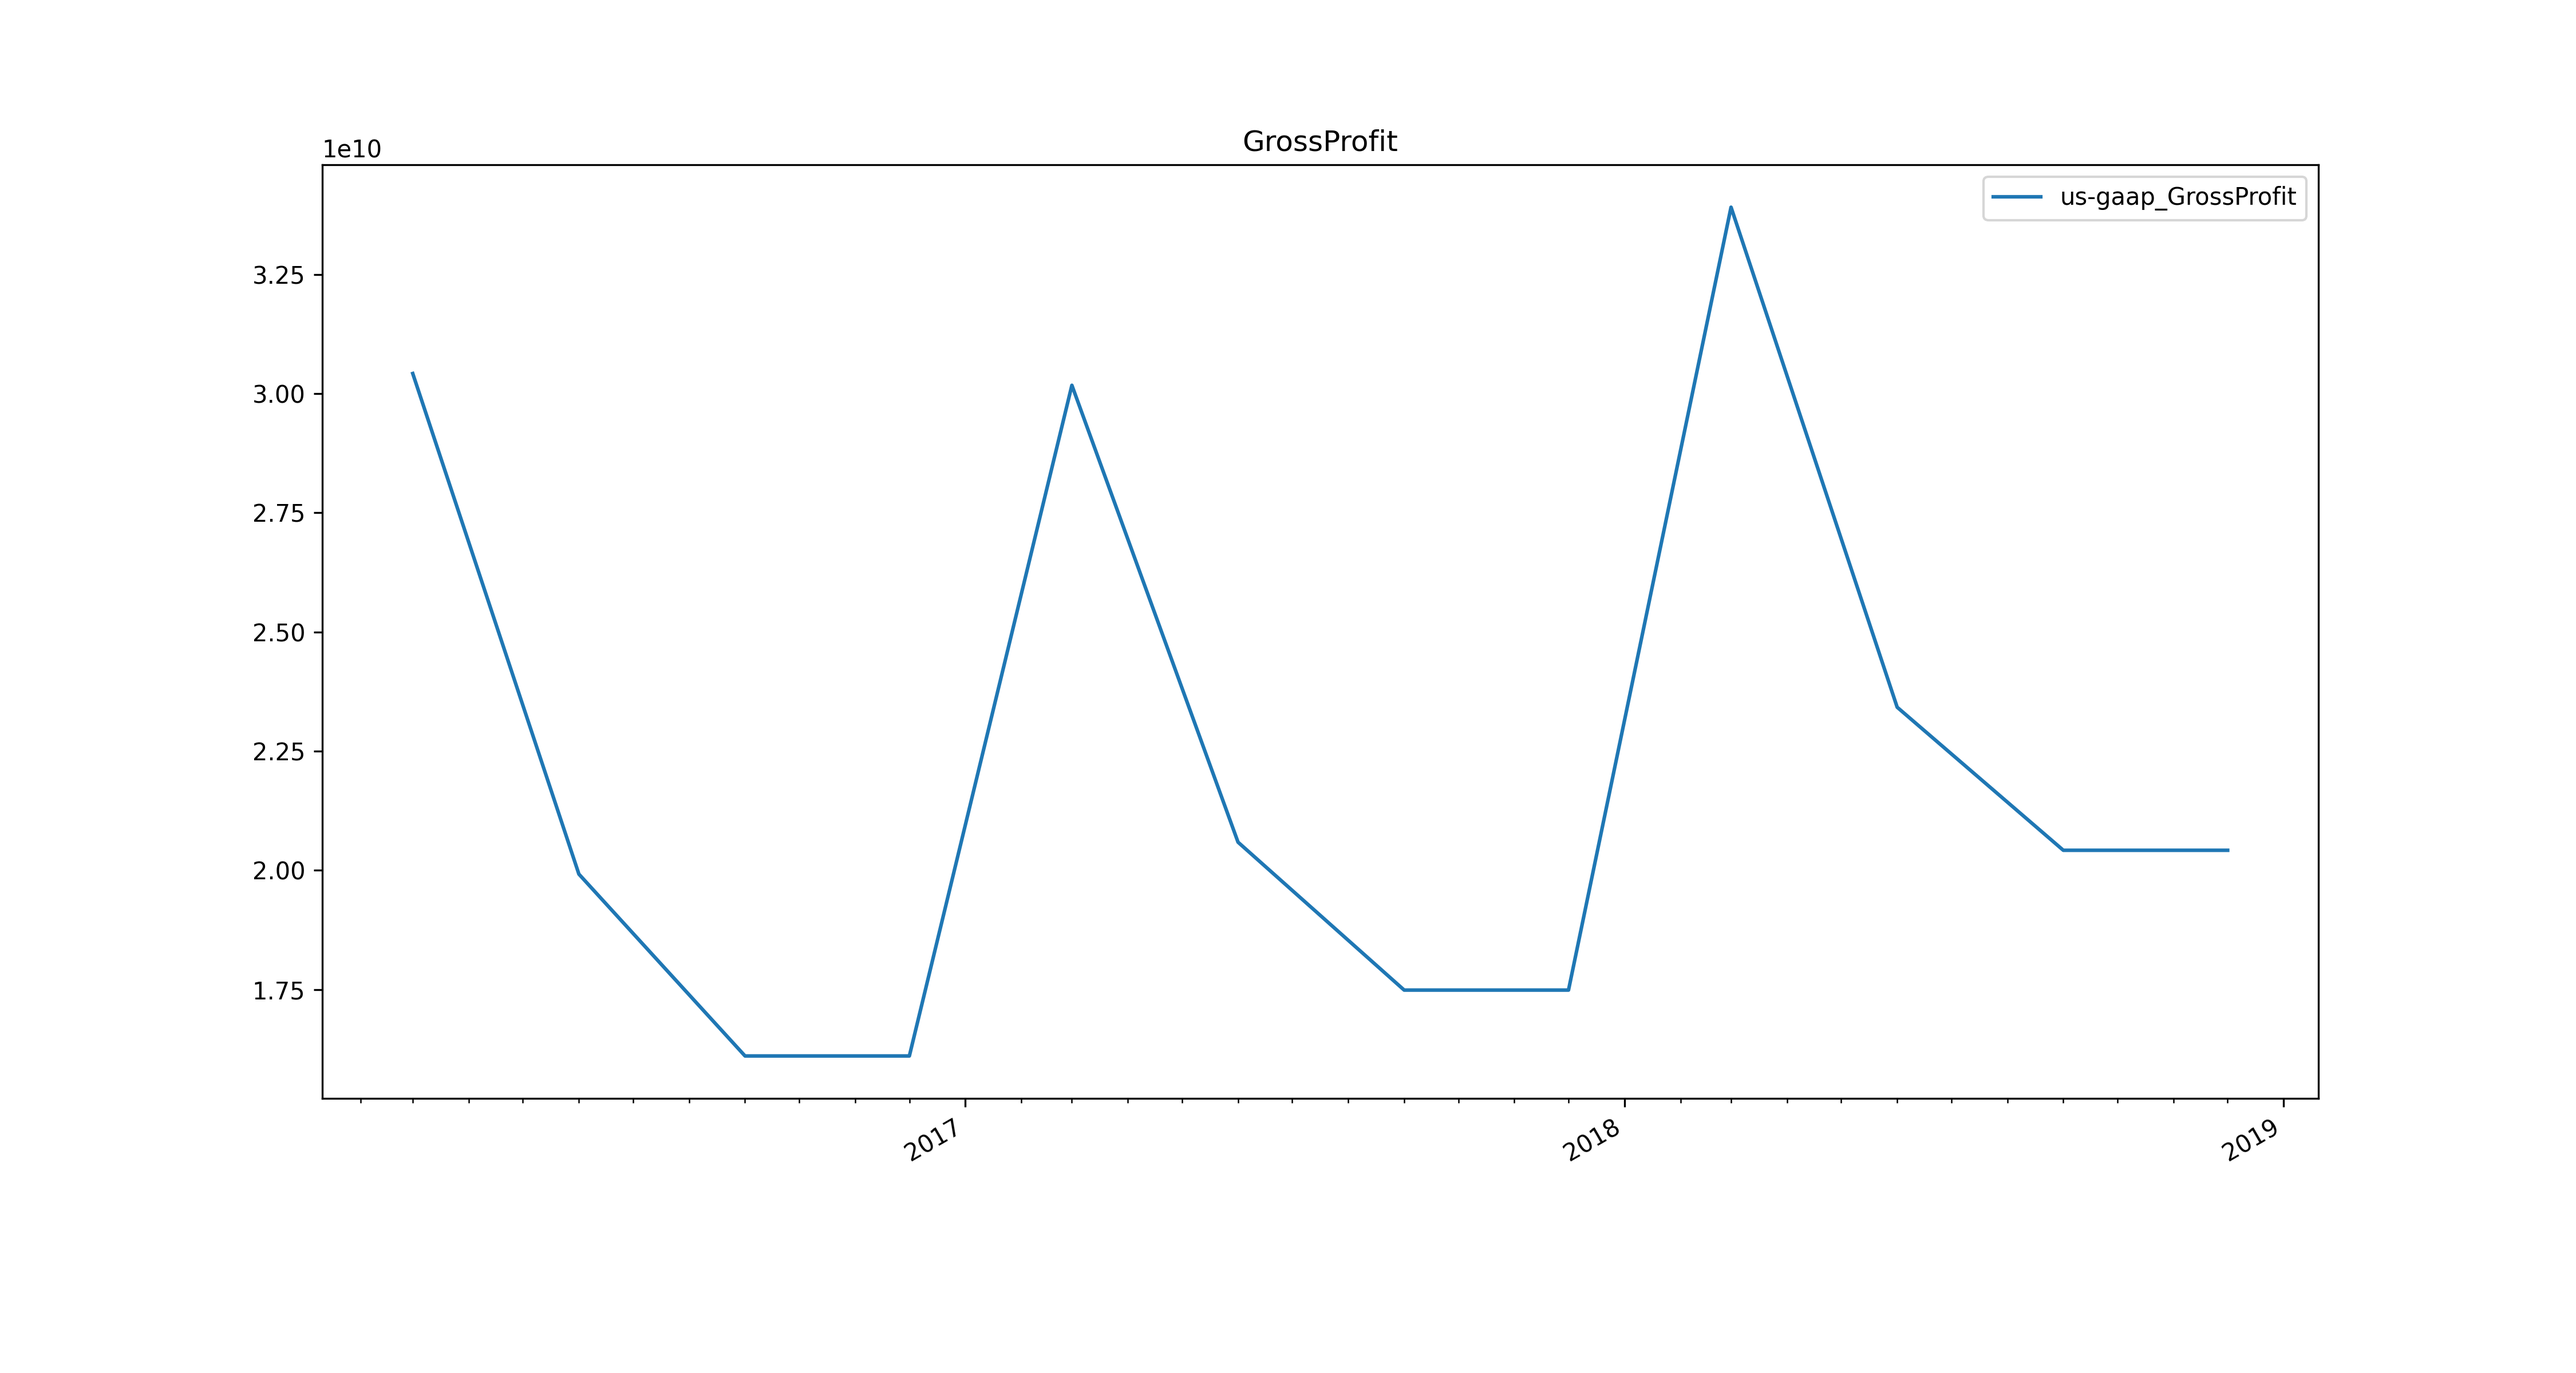
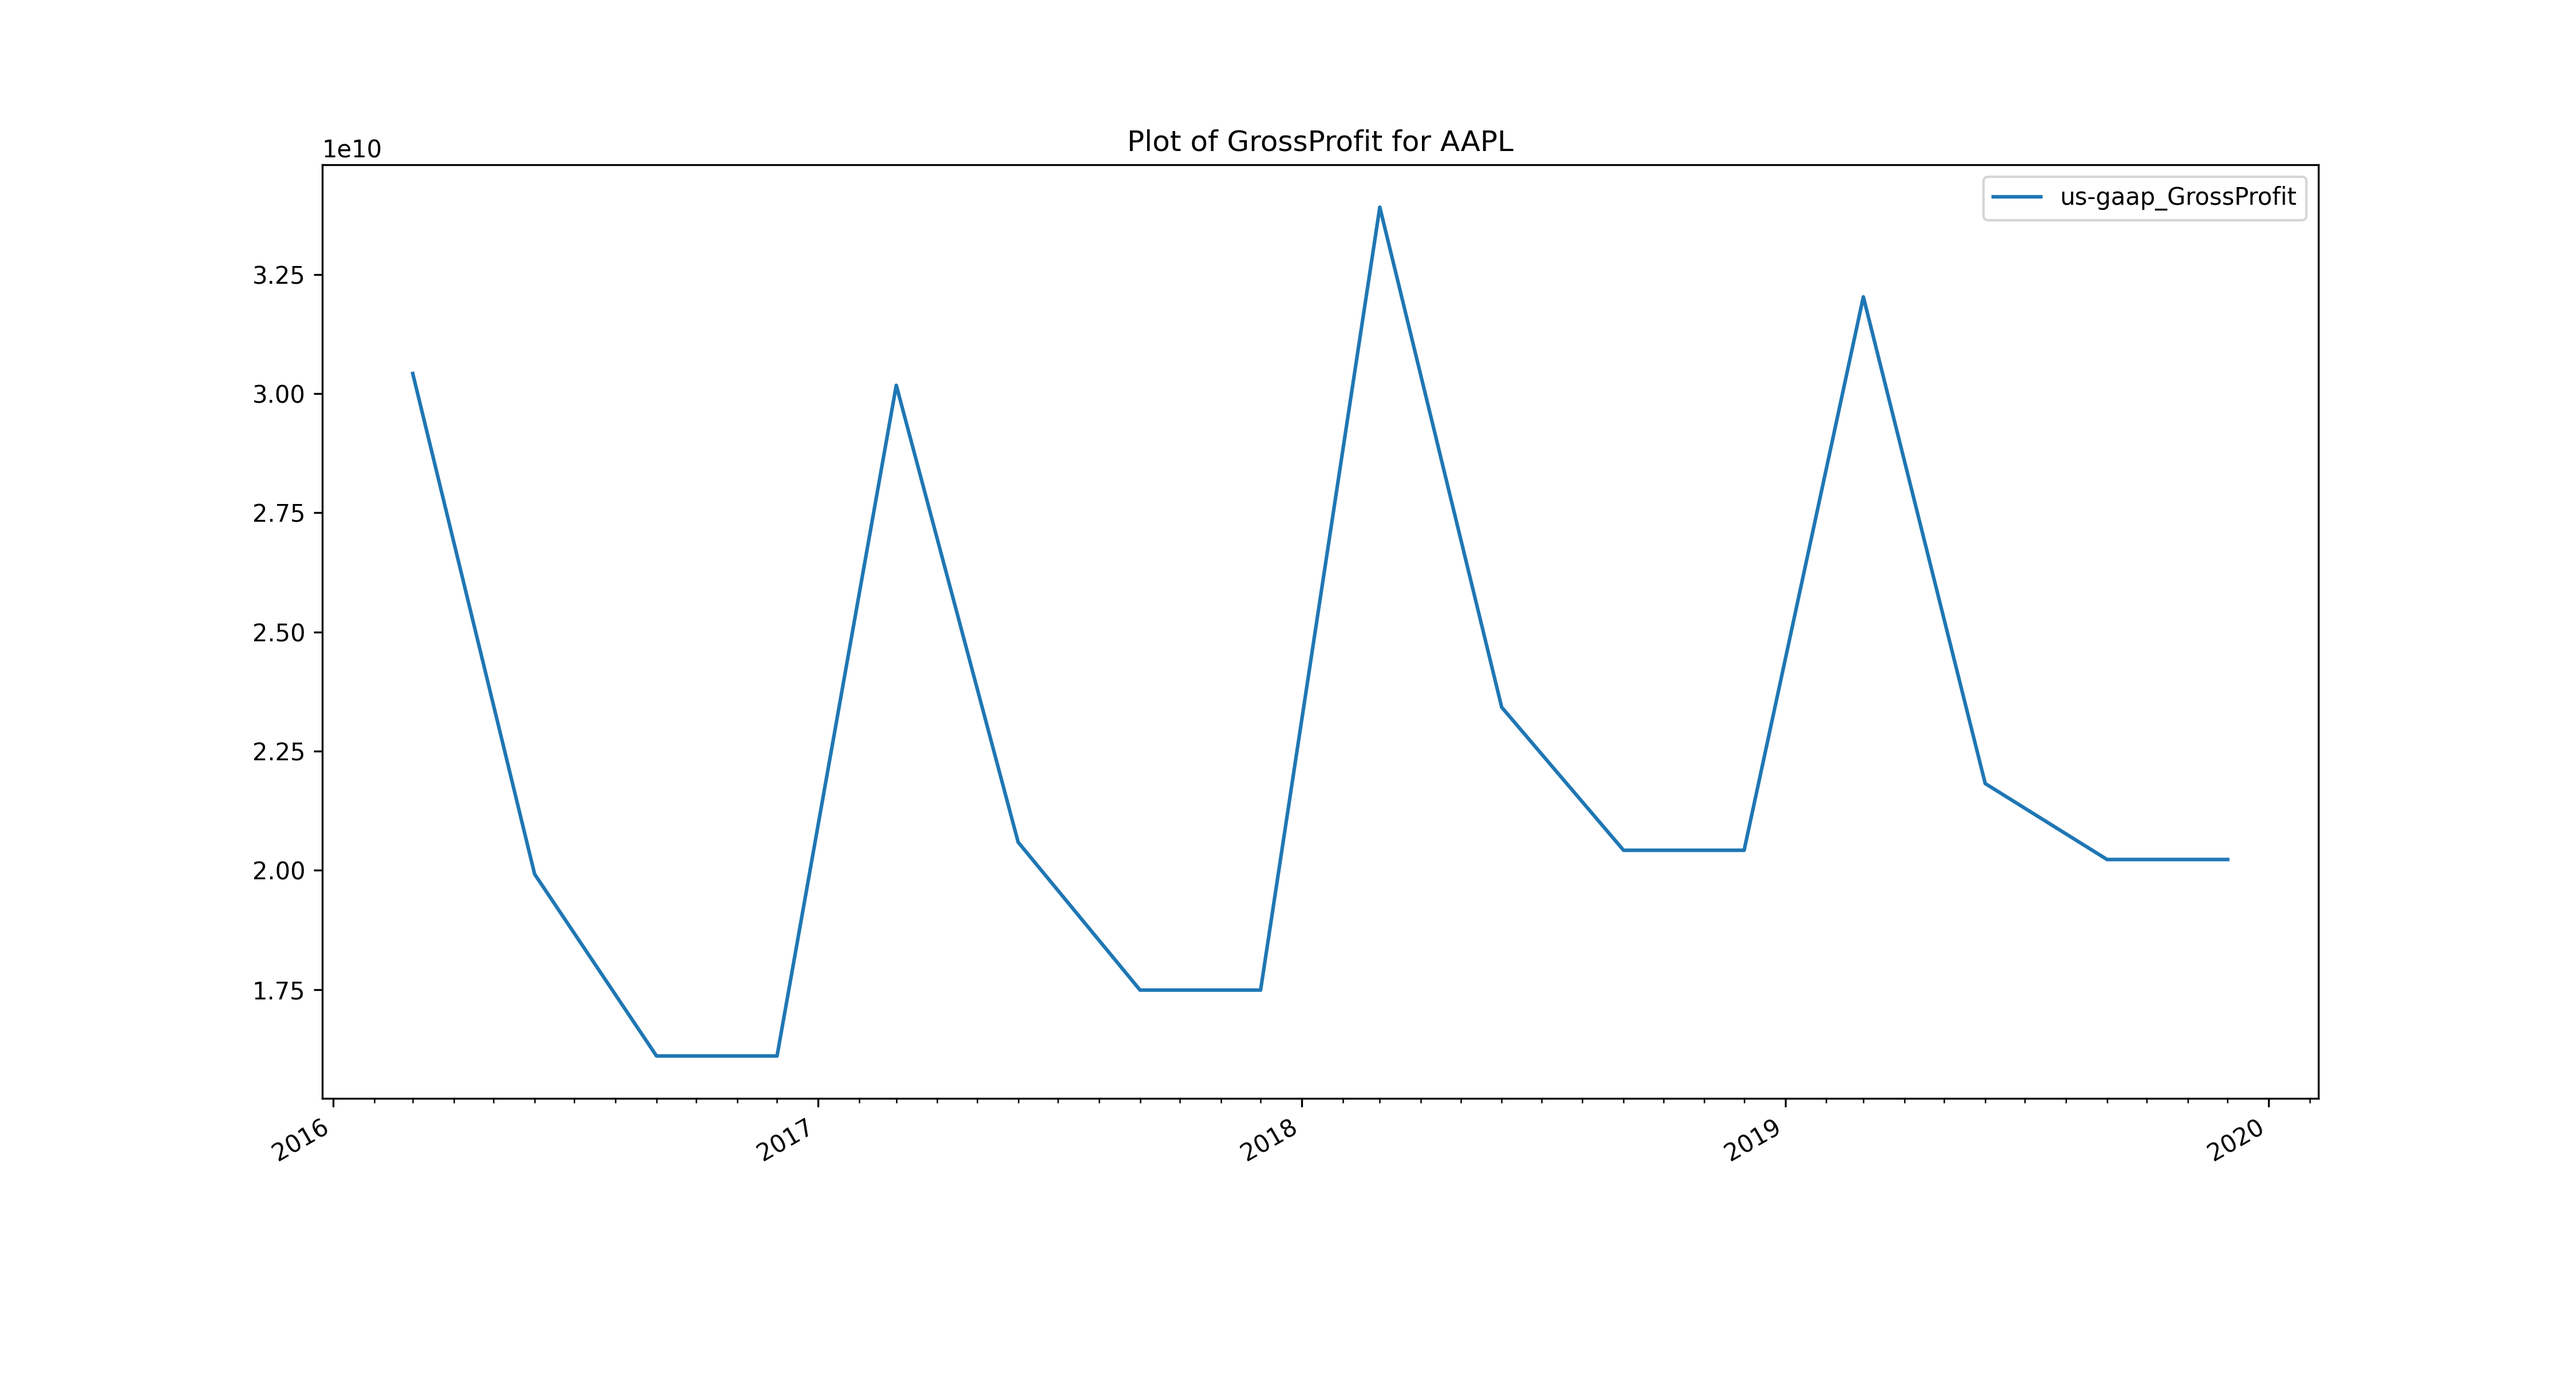
small improvement in exception handling

diff --git a/edgar_history.py b/edgar_history.py
@@ -8,8 +8,6 @@ import matplotlib.pyplot as plt
 import matplotlib.dates as mdates
 import sys
 
-
-
 def get_data_from_one_year(company_name, year):
     stock = Stock(company_name)
 
@@ -17,13 +15,25 @@ def get_data_from_one_year(company_name, year):
 
     for i in range(1, 5):
         filing = stock.get_filing(period='quarterly', year=year, quarter=i)
-        income_statement = filing.get_income_statements().reports[0].map
-        balance_sheet = filing.get_balance_sheets().reports[0].map
-        cash_flow = filing.get_cash_flows().reports[0].map
+        try:
+            income_statement = filing.get_income_statements().reports[0].map
+            #balance_sheet = filing.get_balance_sheets().reports[0].map
+            #cash_flow = filing.get_cash_flows().reports[0].map
+        except:
+            continue
 
         one_quarter_data = income_statement
-        one_quarter_data.update(balance_sheet)
-        one_quarter_data.update(cash_flow)
+
+        if filing.get_balance_sheets():
+            balance_sheet = filing.get_balance_sheets().reports[0].map
+            one_quarter_data.update(balance_sheet)
+
+        if filing.get_cash_flows():
+            cash_flow = filing.get_cash_flows().reports[0].map
+            one_quarter_data.update(cash_flow)
+
+        #one_quarter_data.update(balance_sheet)
+        #one_quarter_data.update(cash_flow)
 
         # trick to maintain the same structure of the data
         my_date_obj = namedtuple('MyStruct', 'value')
@@ -92,8 +102,7 @@ def plot(df, field_name, company_name=""):
     ax.xaxis.set_major_formatter(years_fmt)
     ax.xaxis.set_minor_locator(months)
 
-    ax.set_title(field_name[8:])
-
+    ax.set_title(f"Plot of {field_name[8:]} for {company_name}")
     fig.autofmt_xdate()
     plt.legend()
 
@@ -108,24 +117,26 @@ def main():
     field_name = "us-gaap_" + sys.argv[4]
 
     print("Downloading data")
-    data = get_data("AAPL", start_year=start_year, end_year=end_year)
+    data = get_data(company_name, start_year=start_year, end_year=end_year)
     data_keys = get_available_fields_from_data(data)
     df = data_to_pd(data)
-
     print("Download completed")
 
     while True:
         if field_name not in data_keys:
-            for field_name in data_keys:
+            for field_name in sorted(list(data_keys)):
                 print(field_name[8:])
 
             print(f"\n '{sys.argv[4]}' has not been found in the report.")
-            field_name = "us-gaap_" + input("\n Enter the field from the list above: ")
+            field_name = "us-gaap_" + input("\n Enter the field from the list above: \n")
 
-        plot(df, field_name, "AAPL")
+            continue
+
+        plot(df, field_name, company_name)
+
         print("\n The generated plot has been saved in figures directory.")
 
-        field_name = input("\n Please enter new field or type 'exit' to close the program or load new data.")
+        field_name = input("\n Please enter new field or type 'exit' to close the program (and load new data) \n")
 
         if field_name == 'exit':
             sys.exit()

diff --git a/edgar/filing.py b/edgar/filing.py
@@ -169,9 +169,8 @@ class Filing:
             if short_name == report_short_name.lower():
                 filename = report.find('htmlfilename').get_text()
                 return filename
-        print(f'could not find anything for ShortName {report_short_name.lower()}')
+        #print(f'could not find anything for ShortName {report_short_name.lower()}')
         return None
-
 
 
     def get_income_statements(self):

diff --git a/README.md b/README.md
@@ -1,1 +1,36 @@
 # Extracting data from SEC’s EDGAR database
+
+## Getting started
+
+Use the following commands to run `edgar_history.py`:
+
+* `git clone https://github.com/marklin36/problem_1.git`
+* `source venv/bin/activate`
+* and then for example: `python edgar_history.py 2016 2019 AAPL GrossProfit`
+
+So there are four command lines arguments for the `edgar_history.py` scirpt:
+
+* start_year
+* end_year
+* stock symbol (for example, AAPL, GOOG)
+* field_name (for example, GrossIncome); if requested field name is not found in
+the report, the user will be prompted to choose one from the list.
+
+The generated plot will be saved in `figures` directory.
+
+## Credits
+
+The heavy lifting of parsing 10-Q reports is done by this [library](https://github.com/farhadab/sec-edgar-financials) 
+and the code in directory `edgar` is taken from the source code of this library.
+
+## Assessment
+
+The parsing mechanism is very fragile, and it works only for some companies.
+Here are a few tested examples:
+* `python edgar_history.py 2015 2019 AAPL GrossProfit`
+* `python edgar_history.py 2017 2019 IBM GrossProfit`
+* `python edgar_history.py 2016 2019 GOOG GrossProfit`
+
+## Things to improve
+
+The script is not very robust because exception handling is poor. 
